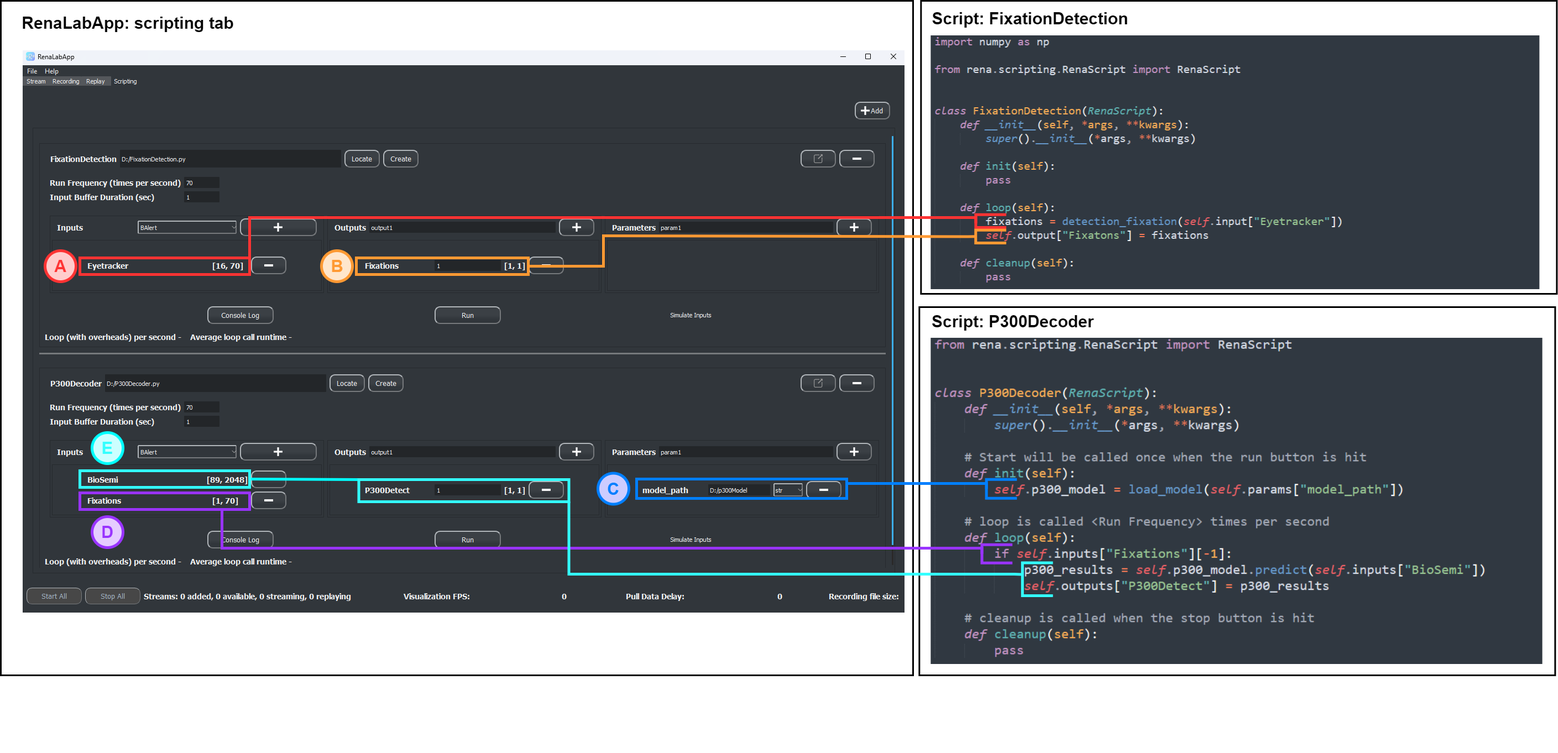
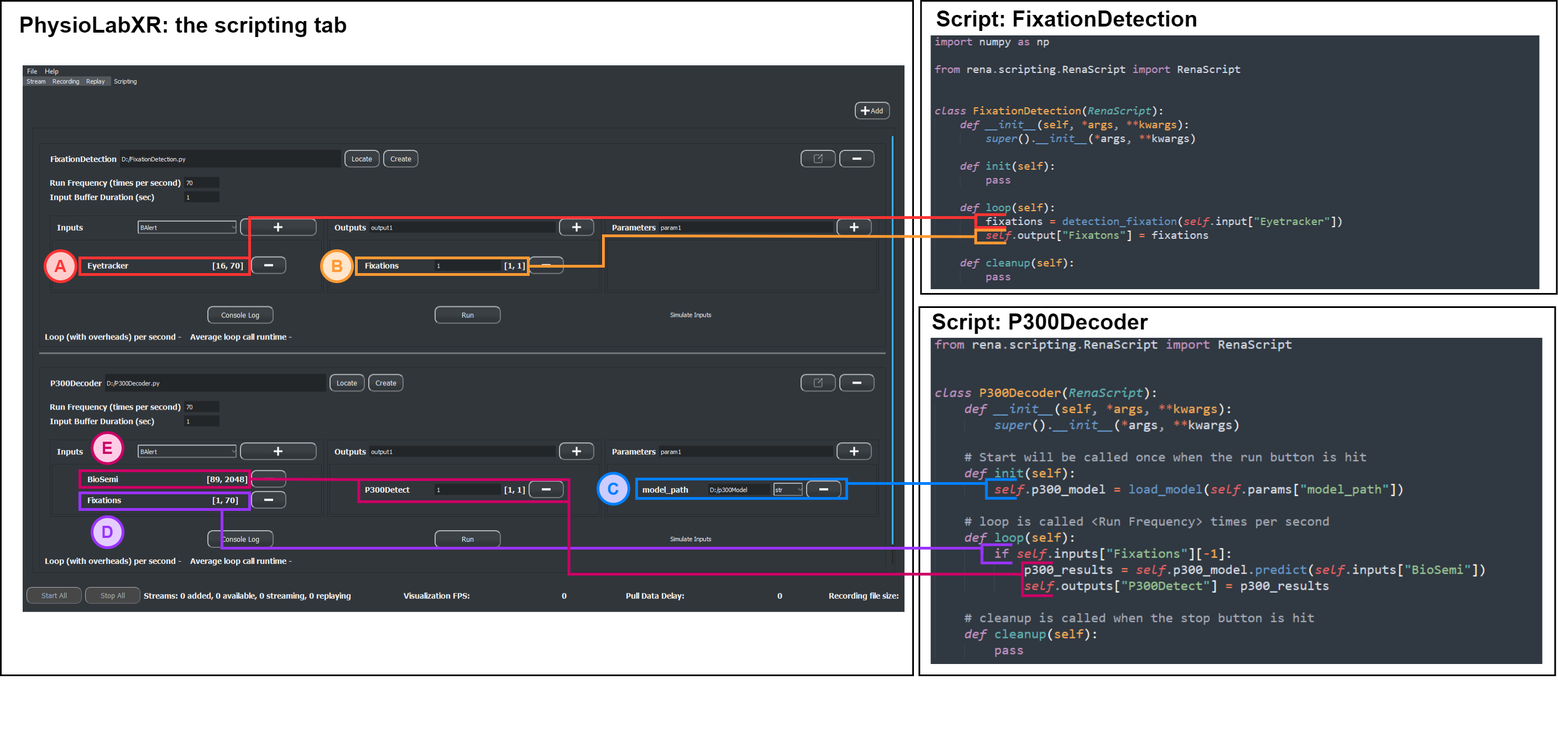
update paper from feedbacks

diff --git a/paper/paper.md b/paper/paper.md
@@ -31,62 +31,65 @@ bibliography: paper.bib
 
 # Summary
 
-![PhysioLabXR is built for real-time, multi-modal physiological experiments. It offers features including various 
-diverse visualization methods, digital 
-signal processing modules, replaying past experiments, and a scripting interface to deploy custom pipelines.\label{fig:teaser}](physiolabxr%20teaser.png)
+![PhysioLabXR is a software platform for real-time, multi-modal physiological experiments. It includes
+visualization methods, digital 
+signal processing modules, support for recording and replaying experiments, and a scripting interface to deploy custom pipelines.\label{fig:teaser}](physiolabxr%20teaser.png)
 
 
-Recent years have seen growing interest in multi-modal experiments and closed-loop interaction systems in  
-neuroscience and human-computer interaction (HCI). A need arises for versatile software platforms that can handle 
-diverse data streams in real time, enable flexible processing pipelines, and support the prototyping of interactive paradigms. 
 
-We introduce *PhysioLabXR*, an open-source software platform aimed at streamlining experiments involving real-time 
-physiological data processing and interactive interfaces. *PhysioLabXR* provides native support for an increasing list of devices such as EEG, eyetracker, fNIRS, camera, and microphone, and implements popular data 
-transfer protocols, including LabStreamingLayer and ZMQ. The software platform features multi-stream visualization, real-time digital signal 
-processing (DSP), robust recording and synchronized replay of multi-modal data, and a Python-based scripting interface 
-for users to create custom pipelines. Mostly in Python, the software architecture is optimized through concurrency and parallelism to ensure smooth performance.
 
-*PhysioLabXR* is built for neurosciences and HCI experiments. Benchmarks demonstrate its ability to handle high-throughput and
-multi-stream data reliably. Use cases showcase its versatility for VR experiments and BCI applications such as P300 speller. The software reduces research cycle overhead and provides researchers full flexibility to build 
+*PhysioLabXR* is an open-source software platform for developing experiments for 
+neuroscience and human–computer interaction (HCI)
+that involve real-time 
+physiological data processing and interactive interfaces. *PhysioLabXR* provides native support for data sources such as electrophysiological sensors (e.g., EEG, EMG, EOG), fNIRS, eye trackers, cameras, and microphones, and implements the popular data transfer protocols: Lab Streaming Layer (LSL) [@kothe2014labstreaminglayer] and ZeroMQ (ZMQ) [@zeromq]. It features multi-stream visualization methods, real-time digital signal 
+processing (DSP) modules, support for recording and replay experiments, and a Python-based scripting interface 
+for creating custom pipelines. 
+
+*PhysioLabXR* is written mostly in Python, and has an architecture that is optimized through concurrency and parallelism to ensure smooth performance. We provide a set of detailed tutorials covering all features, and example applications such as a P300 speller with a Unity frontend [@Unity] and a mental arithmetic experiment interfacing with PsychoPy [@peirce2007psychopy]. An accompanying set of benchmarks demonstrate the ability of *PhysioLabXR* to handle high-throughput and
+multi-stream data reliably and efficiently. Published use cases show its versatility for VR and screen-based experiments [@lapborisuth2023pupil] [@koorathota2023multimodal] and sensor fusion studies  [@wei2022indexpen] [^1].
+---
+The software reduces research cycle overhead and provides researchers full flexibility to build 
 customized systems. It represents an extensible framework to tackle the complexity of modern experiments at the intersection 
 of neuroscience, HCI, and related fields. By simplifying real-time multi-modal data handling and interactive prototyping, 
-*PhysioLabXR* has the potential to foster research insights and accelerate innovations. 
-
+*PhysioLabXR* has the potential to foster impactful research insights and accelerate innovations. 
+---
+[^1]: *PhysioLabXR* was formerly called *RealityNavigation*, and *RNApp* in older publications.
 
 
 # Statement of need
 
-*Multi-modal experiments and supporting software* In recent years, an increasing body of research in brain-computer interface emphasizes multi-modal and close-loop approaches.
-Modern experiments in neuroscience and related fields continuously place more emphasis on multiple modalities. Though
-the early-day experiment combining EEG and event markers can be considered multi-input. The potential of multi-modal
-experiment shines when different physiological measurement marries together. Sometimes streams can act as events to extract
-meaningful intervals of data from other sensors, such as fixation-related potential (FRP) studies where eye behavior and EEG
-are combined [@nikolaev2016combining]. Multiple physiological signal can also be combined to enhance the predictive
-power for application including emotion recognition [@koelstra2011deap] [@he2020advances] and movement actuation
-via sensorimotor rhythms [@sollfrank2016effect]. They also help study how different physiological systems interact like
-using pupil dilation as a proxy for locus coeruleus activity [@murphy2014pupil].
+Recent years have seen a growing interest in multi-modal experiments and closed-loop interaction systems in  
+neuroscience and human–computer interaction (HCI).
+Modern experiments in these fields are placing increasingly greater emphasis on fusing multiple modalities and combining different physiological measurements. For example, one sensor can generate events to extract
+meaningful data intervals from other sensors, such as fixation-related potential (FRP) studies in which EEG epochs are locked to visual fixations from eye trackers [@nikolaev2016combining]. Multiple physiological signals can also be combined to enhance their predictive
+power for use in applications ranging from emotion recognition [@koelstra2011deap] [@he2020advances] to movement actuation
+via sensorimotor rhythms [@sollfrank2016effect]. Further, multi-modal paradigms can help in exploring how different physiological systems interact, like
+using pupil dilation as a proxy for locus coeruleus activity from functional magnetic resonance imaging (fMRI) [@murphy2014pupil].
 
-Many analysis methods and computational modeling have been proposed specifically for multi-modal data including the
-analytical approach of FRP deconvolution [@dimigen2021regression], and the data-driven multi-modal deep learning (DL) models
-[@wang2022husformer] [@nie20163d]. Efforts have been taken more recently to design real-time interactive systems (i.e., BCIs)
+Many analysis methods and computational modeling have been proposed specifically for multi-modal data, including the
+analytical approach of FRP deconvolution [@dimigen2021regression] and the data-driven multi-modal deep learning (DL) models
+[@wang2022husformer] [@nie20163d]. Efforts have been taken more recently to design real-time interactive systems (e.g., BCIs)
 using multi-modal data [@ahn2017multi] and supporting software were developed
-[@kothe2014labstreaminglayer] [@razavi2022opensync]. Most commonly the software are networking protocols focusing
-on timestamp synchronization across different modalities. To provide researchers an open-source, community-driven software
-tool for the increasing needs in multi-modal experiments, PhysioLabXR offers a complete all-in-one GUI application for
-visualizing, recording, replaying past experiments, and deploying end-to-end DSP and ML pipelines.
+[@kothe2014labstreaminglayer] [@razavi2022opensync]. A large number of the supporting software are networking protocols focusing
+on timestamp synchronization across different modalities. We aim to provide researchers with an open-source, community-driven software tool to address the increasing needs in multi-modal experiments. 
+
+---
+*PhysioLabXR* offers a complete all-in-one GUI application for
+visualizing, recording, replaying past experiments, and deploying end-to-end DSP & ML pipelines.
+---
 
 # Benefits
 
-*Software tools for real-time experiments* Despite the prevalence of real-time behavior or interactive experiments, software tools supporting them are surprisingly 
+Despite the prevalence of real-time behavior or interactive experiments, software tools supporting them are surprisingly 
 far between. Researchers often resort to creating their own data pipeline for each new project, adding significant overhead in the way of
 high-quality research. The existing software tools for handling physiological data in real-time can be broadly categorized 
 into two groups. The first group consists of proprietary software closely tied to specific hardware, often developed by 
 the manufacturer of the hardware. These device-coupled software tools aim to provide a tailored experience for the types 
 of signals captured by their hardware, offering specialized data visualization interfaces. For example, NIRX Aurora [@nirx] 
 provides a 3D scalp and cortex model for visualizing hemoglobin oxidation. Meanwhile, these software often offer powerful 
-data analysis tools for the respective hardware, such as fixation detection in eyetracking software suites like Tobii [@tobii]. 
+data analysis tools for the respective hardware, such as fixation detection in eye-tracking software suites like Tobii [@tobii]. 
 While this line of software excels in their compatibility with the associated device, they often lack support for multi-modal 
-experiments (e.g., pair fNIRS with eyetracking), as the data they capture remain isolated within their ecosystem and cannot 
+experiments (e.g., pair fNIRS with eye-tracking), as the data they capture remain isolated within their ecosystem and cannot 
 be synchronized with other modalities. To address this limitation, researchers often resort to third-party solutions that 
 support integration with all the data sources in their experiment. LSL solves the inter-device compatibility problem as 
 a standardized network protocol for synchronizing data from different devices [@kothe2014labstreaminglayer] [@wang2023scoping]. 
@@ -102,65 +105,65 @@ which is crucial for many experiments, particularly those involving devices pron
 such as EEG and fNIRS. Real-time visualization allows experimenters to react promptly to sensor failures and prevent wasting 
 valuable participant time. Additionally, visualizing multiple streams as they come in helps researchers gain deeper insight. 
 They can, for example, observe the stimulus event triggers on the event marker stream while inspecting the EEG streams 
-for corresponding event-related potential \cite{pei2020brainkilter}.
+for corresponding event-related potential [@pei2020brainkilter].
 
 With that, we come to the second group of device-independent graphic software tools; many have been proposed over the 
 years to assist researchers and practitioners in conducting experiments involving real-time data collection and feedback. 
 These tools often utilize the networking protocols mentioned earlier for data transfer and may include native plug-ins for 
-specific devices, such as Brainflow for OpenBCI devices \cite{brainflow}. Some offer features such as real-time data 
-processing modules as in NeuroPype \cite{neuropype}, and MNE S \cite{esch2018mne}. At the time of this article, a majority 
+specific devices, such as Brainflow for OpenBCI devices [@brainflow]. Some offer features such as real-time data 
+processing modules as in NeuroPype [@neuropype], and MNE Scan [@esch2018mne]. At the time of this article, a majority 
 of popular experiment platforms such as OpenVibe, MNE Scan, and FieldTrip are primarily built using statically compiled 
 languages (e.g., c and C++) or proprietary languages (e.g., MATLAB). While tools such as OpenVibe and NeuroPype offer 
 scripting interfaces where users can add custom scripts in Python, it is worth noting that Python, despite its rising 
-popularity as a programming language \cite{srinath2017python} for its ease of use and versatility, is less favored by 
-developers as a backbone language for experiment platform that requires high precision and high data throughput. 
+popularity as a programming language [@srinath2017python] for its ease of use and versatility, is less favored by 
+developers as a backbone language for experiment platforms that requires high precision and high data throughput. 
 Although not impossible, implementing an experiment platform in an interpreted language like Python necessitates 
 significant optimization efforts to match the performance level of platforms built with a compiled language. 
-Nevertheless, one of the objectives that PhysioLabXR seeks to address is to prioritize ease of understanding, enabling 
-users to expand and build upon its open-source foundation. As a result, Python dominates PhysioLabXR's implementation 
-from frontend GUI to the backend servers without sacrificing performance owing to its concurrent runtime architecture 
-(section \ref{sec: software architecture}). Users are welcome to use the software as a scaffold and leverage Python's 
+Nevertheless, one of the objectives that *PhysioLabXR* seeks to address is to prioritize ease of understanding, enabling 
+users to expand and build upon its open-source foundation. As a result, Python dominates the platform’s implementation 
+from frontend GUI to the backend servers without sacrificing performance owing to its concurrent runtime architecture.
+Users are welcome to use the software as a scaffold and leverage Python's 
 extensive APIs to shape the platform according to their needs.
 
 Moreover, a scripting interface to add user scripts is offered by most experiment software platforms, allowing users to build flexible 
 data processing pipelines. OpenVibe, for instance, is known for its graphical pipeline builder while also allowing the 
-addition of Python and LUA scripts \cite{renard2010openvibe}. iMotion uses a platform-specific iMotion scripting language 
-to achieve the same goal \cite{iMOTION_Script_Language}. With PhysioLabXR, users write Python scripts to interact with any 
+addition of Python and LUA scripts [@renard2010openvibe]. iMotion uses a platform-specific iMotion scripting language 
+to achieve the same goal [@iMOTION_Script_Language]. With *PhysioLabXR*, users write Python scripts to interact with any 
 data stream and stream out the processed results with built-in I/O modules. This flexibility allows users to design 
-closed-loop systems, including deploying machine learning models and sending predictions to and from PhysioLabXR.
+closed-loop systems, including deploying machine learning models and sending predictions to and from *PhysioLabXR*.
 
 
 # PhysioLabXR: the experiment platform
 To facilitate HCI and neuroscience experiments, prototyping interaction paradigms such as brain-computer interface (BCI), 
-we present PhysioLabXR (Reality Navigation Laboratory Application), a software platform designed to simplify the 
-research & development (R&D) process. PhysioLabXR combines the ease of use and versatility of Python as main language
+we present *PhysioLabXR*, a software platform designed to simplify the 
+research & development (R&D) process. It combines the ease of use and versatility of Python as main language
 , while leveraging the performance of C++ for computation-intensive subroutines. As an open-source, 
 cross-platform, experiment tool caters to both academic researcher and industry practitioners. It offers native support 
-for various sensing hardware covering electroencephalogram (EEG), eyetracker, mmWave radar, as well as video and audio 
-devices. Moreover, PhysioLabXR integrates with popular stimulus-presentation software such as Unity \cite{Unity} and 
-PsychoPy \cite{peirce2007psychopy}, and other analysis software including MATLAB \cite{matlab}. For experiments already 
-utilizing LabStreamLayer (LSL) and ZeroMQ (ZMQ) for data transfer, PhysioLabXR provides convenient network stream 
+for various sensing hardware covering electroencephalogram (EEG), eye tracker, mmWave radar, as well as video and audio 
+devices. Moreover, the package integrates with popular stimulus-presentation software such as Unity [@Unity] and 
+PsychoPy [@peirce2007psychopy], and other analysis software including MATLAB [@matlab]. For experiments already 
+utilizing LSL and ZMQ for data transfer, the software provides convenient network stream 
 connectivity with these two widely-used data middlewares.
 
-A key feature of PhysioLabXR is its ability to visualize multiple data streams using the most suitable plots for each 
+A key feature of *PhysioLabXR* is its ability to visualize multiple data streams using the most suitable plots for each 
 physiological data type, such as line charts for eye tracking or functional near infrared spectroscopy (fNIRS) data, and spectrograms 
 for EEG or audio data. This function enables users to validate measurement setups prior to and during data collection. 
 In addition, user can create real-time data processing pipeline with the built-in digital signal processing (DSP) modules 
-such as filters and apply them to data streams. PhysioLabXR has a highly optimized serialization interface to record 
+such as filters and applying them to data streams. The software has a highly optimized serialization interface to record 
 experimental data to file system. These recordings can later be replayed with the playback interface, which includes 
 features such as setting the playback location using a slider. 
 
 
-One of the most powerful and flexible aspects of PhysioLabXR is its scripting interface, where users can create custom data 
-processing pipelines, training machine learning models and deploy them to make predictions. On the other hand, when a data 
-source is not natively supported and the network streaming over LSL or ZMQ is not an option, PhysioLabXR provides a 
-specialized scripting module that enables user to define custom data source simply by overriding a few functions. 
-Additionally, PhysioLabXR supports multi-modal experiments that incorporate audio/video data in their pipeline, or when 
+One of the most powerful and flexible aspects of *PhysioLabXR* is its scripting interface, where users can create custom data 
+processing pipelines, training machine learning models and deploying them to make predictions. On the other hand, when a data 
+source is not natively supported and the network streaming over LSL or ZMQ is not an option, the library provides a 
+specialized scripting module that enables users to define custom data sources simply by overriding a few functions. 
+Additionally, the software supports multi-modal experiments that incorporate audio/video data in their pipeline, or when 
 the experimenter needs to synchronously record the screen where the stimuli are presented, along with other physiological 
-sensors. PhysioLabXR offers native connectivity with screen capture, webcams and microphones on the host computer.
+sensors. The platform offers native connectivity with screen capture, webcams and microphones on the host computer.
 
 
-PhysioLabXR is designed with the following objectives 1) providing a user-friendly graphic user interface (GUI) for 
+We design the software is designed with the following objectives 1) providing a user-friendly graphic user interface (GUI) for 
 working with both physiological and behavioral data 2)ensuring a reliable and robust backend capable of synchronizing and 
 processing multi-modal and high-throughput data in a scalable manner. 3) streamlining the hitherto time-consuming and 
 challenging steps in experiment cycles, including visualizing, recording and analyze data offline to understand 
@@ -169,17 +172,17 @@ flexibility and ease of setup as a cross-platform solution, complemented by exte
 users to extend the platform with custom hardware, and real-time processing scripts.
 
 
-The development of PhysioLabXR adheres to industry-standard software development guidelines and implements continuous 
+The development of *PhysioLabXR* adheres to industry-standard software development guidelines and implements continuous 
 integration. Its modular software architecture simplifies the learning curve for users who wish add custom functionalities 
-to fit their needs. This includes adding support for novel sensors not natively integrated into PhysioLabXR.
+to fit their needs. This includes adding support for novel sensors not natively integrated.
 
 
 ## Working with streams
 
-All features in PhysioLabXR builds on *Streams*:
+All functionalities in *PhysioLabXR* is based on *Streams*:
 a stream is a sequence of data points that arrive in real-time, with each frame of data carrying a timestamp, 
 whether it is from physiological sensors, video cameras, microphones, 
-screen capture, or software-generated data. PhysioLabXR provides a unified interface for working with streams with 
+screen capture, or software-generated data. It provides a unified interface for working with streams with 
 functionalities including
 visualization, recording, replaying, and DSP. 
 Each feature is designed to address different aspects of needs in experiments involving real-time data collection and 
@@ -188,68 +191,69 @@ processing. Here is a brief overview of these features:
 * *Visualization* helps users visually inspect their data in real-time to better understand their data. 
 * *Recording* lets users capture experimental data in real-time and export them for further analysis. 
 * *Replay* enables users to play back data streams from past experiments, and if needed, test their data processing script and algorithm in real-time as if the experiment is running live. 
-* *DSP* is another powerful feature in PhysioLabXR that allows users to apply various predefined signal processing 
+* *DSP* is another powerful feature that allows users to apply various predefined signal processing 
 algorithms to their data streams. 
 
-![Example use case of PhysioLabXR in a memory formation and retrieval experiment involving real-time processing of 
+![Example use case of *PhysioLabXR* in a memory formation and retrieval experiment involving real-time processing of 
 pupillometry and fMRI streams. This example demonstrates the diverse visualization options the software packs.
 In this experiment, the participant is asked to navigate a virtual shopping mall and give verbal responses during their task. 
-(A) The 3D fMRI visualizer shows fMRI data streamed in real-time (B) The experimenter uses RenaLabApp to monitor and 
-record scene from the participant's first person view, while they performs the task. (C) The participant's speech is 
-captured using a microphone connected to PhysioLabXR that visualizes the audio data as a spectrogram. (D) Eye movement 
-and pupillometry data are recorded through an eyetracker outside of the scanner that receives the participant's eye image 
-via a mirror. The time series of the eyetracking data are plotted in a line chart. (E) Simultaneously, a machine learning 
-model deployed through RenaLabApp's scripting interface predicts from the fMRI data and pupillometry if a target memory 
+(A) The 3D fMRI visualizer shows fMRI data streamed in real-time (B) The experimenter uses PhysioLabXR to monitor and 
+record the scene from the participant's first person view, while they perform the task. (C) The participant's speech is 
+captured using a microphone connected to the software  that visualizes the audio data as a spectrogram. (D) Eye movement 
+and pupillometry data are recorded through an eye tracker outside of the scanner that receives the participant's eye image 
+via a mirror. The time series of the eye-tracking data are plotted in a line chart. (E) Simultaneously, a machine learning 
+model deployed through PhysioLabXR's scripting interface predicts from the fMRI data and pupillometry if a target memory 
 is being retrieved, with the two-class inference result visualized as a bar plot.](ALlPlottingFormat.png)
 
 
 ## Scripting Interface
 
-![Example script setup a fixation-related potential (FRP) experiment. The FixationDetection script (upper right) identify 
-fixations from eyetracking stream, while the P300Detector script (bottom right) decodes EEG data locked to detected fixations, 
-and determine if a FRP is elicited by a target object. This setup is similar to the experiment by conducted by 
-[@rama2010eye]. The labels in the figure shows the following: 
-(A) The eyetracking data as an input is processed by the fixation-detection script to check if a fixation is made by 
-the participant. (B) The fixation results are streamed through the output LSL outlet named "Fixations". 
+![Example script setup a fixation-related potential (FRP) experiment. The FixationDetection script (upper right) identifies 
+fixations from the eye-tracking stream, while the P300Detector script (bottom right) decodes EEG data locked to detected fixations, 
+and determines if an FRP is elicited by a target object. This setup is similar to the experiment conducted by 
+[@rama2010eye]. The labels in the figure show the following: 
+(A) The eye-tracking data as an input is processed by the fixation-detection script to check if a fixation is made by 
+the participant. (B) The fixation results are streamed through the output LSL outlet named "Fixations." 
 (C) In the *.init* function of P300Detector, the P300 classifier model is loaded from the file system path indicated by
-the script parameter *model_path*. (D) and (E) If a fixation is detected, the model takes the EEG epoch time locked to 
+the script parameter *model_path*. (D) and (E) If a fixation is detected, the model takes the EEG epoch time-locked to 
 the fixation and makes a prediction. A loop call is completed by writing the prediction results to the output stream named 
 *P300Detect*.](scripting%20example.png)
 
-The scripting interface within PhysioLabXR creates many possibility for researchers building diverse experiment paradigms. 
+The scripting interface within *PhysioLabXR* creates many possibilities for researchers to build diverse experiment paradigms. 
 It enables the execution of user-defined Python scripts, empowering users to create and deploy custom data processing 
 pipelines. With python's versatility and open-source libraries encouraging exploration of novel applications like close-loop 
 neurofeedback, users can train and run ML models in real-time, and communicate 
-with external applications using built-in networking APIs including LSL and ZMQ. The script widget as part of the PhysioLabXR's GUI 
+with external applications using built-in networking APIs, including LSL and ZMQ. The script widget as part of the software’s GUI 
 offers a straightforward to add, and run scripts, adjust attributes that influence the data processing pipeline's behavior, 
 and monitor their performance.
 These attributes include defining what streams go into the script as inputs,
 setting input buffer duration, controlling the run frequency, creating outputs to visualize pipeline results or communicate with other programs,
 and utilizing exposed parameters 
-that allow variable adjustments during runtime. A script in PhysioLabXR consists of three abstract methods—$init$, $loop$, and 
+that allow variable adjustments during runtime. A script in *PhysioLabXR* consists of three abstract methods—$init$, $loop$, and 
 $cleanup$—which users can override to specify behavior. The software ships with a collection of built-in scripts for commonly
-used algorithms such as fixation detection and band-power computation, and connection to popular devices such as Tobii eyetrackers [@tobii] and
+used algorithms such as fixation detection and band-power computation, and connection to popular devices such as Tobii eye trackers [@tobii] and
 OpenBCI [@OpenBCI].
 
 
-All these features can be used in combination with each other, enhancing the overall potential of RenaLabApp. 
-For example, filter can first be applied to EEG data, and the user can visualize the filtered stream that can 
-simultaneously drive a BCI with custom script.
+All these features can be used in combination with each other, enhancing the overall potential of PhysioLabXR. 
+For example, filters can first be applied to EEG data, and the user can visualize the filtered stream that can 
+simultaneously drive a BCI with a custom script.
+
 
 ## Software design principles
 
 Smooth runtime experience is a significant challenge for large-scale Python software when dealing with high-throughput 
 data, complex graphics, and frequent i/o operation from serialization, given the interpreted nature of the language.
-PhysioLabXR is optimized through a combination of concurrency, parallelism, and a modular software architecture.
+*PhysioLabXR* is optimized through a combination of concurrency, parallelism, and a modular software architecture.
 
-![Sequence diagram showing the information exchange between RenaLabApp's threads and processes. The main process contains 
+![Sequence diagram showing the information exchange between PhysioLabXR’s threads and processes. The main process contains 
 concurrent threads of the main GUI controller, serialization, data worker, and visualization. When the user adds a new 
 data source, the GUI thread forks a data worker and a visualization thread. More demanding operations run on separate 
 server processes, including replay and scripting. User commands such as *StartStreaming*, *StartReplay*, 
 and *StopRecording* are passed from the main GUI to the corresponding threads or processes.](PhysioLabXR%20Sequence%20Diagram.png)
 
-The architecture of PhysioLabXR follows rigorous software design patterns, minimizing maintenance efforts while maximizing 
-scalability. Unit testing is at the core of our development process, each software feature, backend and GUI frontend,
+The architecture of *PhysioLabXR* follows rigorous software design patterns, minimizing maintenance efforts while maximizing 
+scalability. Unit testing is at the core of our development process; each software feature, backend and GUI frontend,
 is tested on both 
 functionality and performance. The software is built with continuous integration, each
 commit to the main branch triggers a full test routine to ensure compatibility.
@@ -257,25 +261,35 @@ commit to the main branch triggers a full test routine to ensure compatibility.
 
 # Future Scope
 
-PhysioLabXR aims to be a versatile platform for any real-time experiments, primarily for, but not limited to, HCI and neuroscience.
-It is designed to be a community-driven project with our core team of developers maintaining the architectural integrity and functional correctness
-, and we welcome contributions from researchers and practitioners in related fields to build on this scaffold and expand its capabilities.
+*PhysioLabXR* aims to be a versatile platform for any real-time experiments, primarily for, but not limited to, HCI and neuroscience.
+It is designed to be a community-driven project with our core team of developers maintaining architectural integrity and functional correctness.
+At the same time, we welcome contributions from researchers and practitioners in related fields to build on this scaffold and expand its capabilities.
+Although the platform supports any device whose data can be streamed via LSL or ZMQ, 
+for hardware lacking such network support, we are currently working on adding native plugins for more devices like fMRI and TMS (transcranial magnetic stimulation).
+We are also adding more processing modules for different data types, such as real-time source localization 
+for EEG and speech recognition from audio. Moreover, the current scripting interface is designed to be extensible, thus requiring users to implement pipelines from code. 
+In coming releases, we plan to make scripting in the platform more accessible to users with less programming experience by providing a graphical programming interface
+along with code generation for maximum flexibility.
 
-# Acknowledgements
 
+# Acknowledgments
+
+This project was partly funded by 
 We would like to express our gratitude for the support from our colleagues at the Laboratory for Intelligent Imaging and Neural Computing (LIINC),
-and Computer Graphics and User Interfaces (CGUI) Lab at Columbia University. We would also like thank all the community members who have contributed to PhysioLabXR.
+and Computer Graphics and User Interfaces (CGUI) Lab at Columbia University. We would also like to thank all the community members who have contributed to *PhysioLabXR*.
 
 # Licensing and Availability
-PhysioLabXR is an open-source project distributed under BSD 3-Clause License. Researchers are welcome to modify the software 
-to meet their specific needs and share their modifications with the community. We provide the following links to help access resources related to PhysioLabXR:
+*PhysioLabXR* is an open-source project distributed under BSD 3-Clause License. Researchers are welcome to modify the software 
+to meet their specific needs and share their modifications with the community. We provide the following links to help access related resources:
 
-- **Website:** The official RenaLabApp website serves as a central hub for information and updates. It can be accessed at [https://www.physiolabxr.org](https://www.renalabapp.org).
+- **Website:** The official PhysioLabXR website serves as a central hub for information and updates. It can be accessed at [https://www.physiolabxr.org](https://www.physiolabxr.org).
 
-- **Documentation:** documentation providing guides and tutorial for the various features, tutorials, example use cases, and developer guides. It is hosted at [https://realitynavigationdocs.readthedocs.io/en/latest/index.html](https://realitynavigationdocs.readthedocs.io/en/latest/index.html).
+- **Documentation:** documentation providing guides and tutorials for the various features, tutorials, example use cases, and developer guides. It is hosted at [https://physiolabxrdocs.readthedocs.io/en/latest/index.html](https://physiolabxrdocs.readthedocs.io/en/latest/index.html).
 
-- **GitHub Repository:** Users can access the repository at [https://github.com/ApocalyVec/PhysioLabXR](https://github.com/ApocalyVec/RenaLabApp). User can submit bug reports and feature requests through the GitHub issue tracker.
+- **GitHub Repository:** Users can access the repository at [https://github.com/ApocalyVec/PhysioLabXR](https://github.com/ApocalyVec/PhysioLabXR). Users can submit bug reports and feature requests through the GitHub issue tracker.
 
 
 # References
+
+
 
